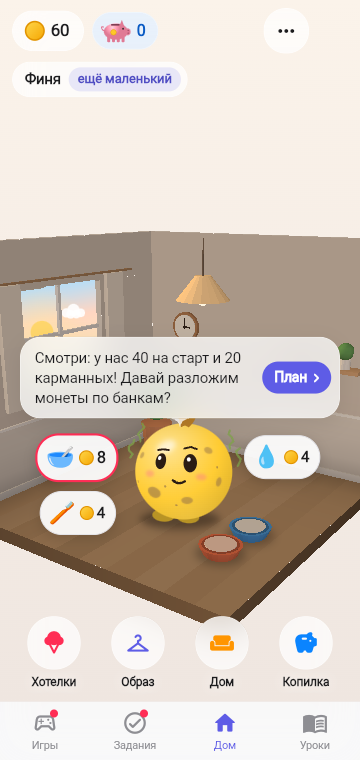
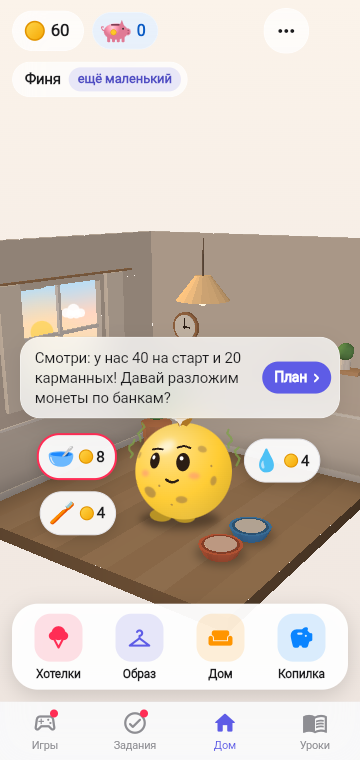
F-042: intro day — no mandatory needs on day 1 (plan, first lesson, games, savings, sleep), needs from day 2; Home sections on a light dock readable at any time of day

diff --git a/client/test/ui/app_flow_test.dart b/client/test/ui/app_flow_test.dart
@@ -55,7 +55,7 @@ Future<void> onboard(WidgetTester t, String name) async {
   await tapKey(t, 'hero.go');
   await settle(t, 20);
   // F-038: герой знакомится — 4 реплики, потом обычный день.
-  for (var i = 0; i < 4; i++) {
+  for (var i = 0; i < 5; i++) {
     await tapKey(t, 'home.greet');
   }
   expect(find.byKey(const Key('home.greet')), findsNothing);
@@ -78,6 +78,17 @@ void main() {
     expect(find.text('Кто заходит?'), findsOneWidget);
     await onboard(t, 'Аня');
     expect(find.text('60'), findsOneWidget);
+
+    // F-042: первый день — знакомство без нужд; спим — и завтра заботы.
+    expect(find.byKey(const Key('home.need.breakfast')), findsNothing);
+    await tapKey(t, 'nav.tasks');
+    await tapKey(t, 'tasks.sleep');
+    await settle(t, 25);
+    expect(find.text('Итог дня 1'), findsOneWidget);
+    await tapKey(t, 'night.morning');
+    await settle(t, 30);
+    await tapKey(t, 'nav.home');
+    expect(find.byKey(const Key('home.need.breakfast')), findsOneWidget);
 
     // А.5 план.
     await tapKey(t, 'home.next');
@@ -187,12 +198,12 @@ void main() {
     await tapKey(t, 'nav.tasks');
     await tapKey(t, 'tasks.sleep');
     await settle(t, 25);
-    expect(find.text('Итог дня 1'), findsOneWidget);
+    expect(find.text('Итог дня 2'), findsOneWidget);
     expect(find.text('✅ Хороший день!'), findsOneWidget);
     await tapKey(t, 'night.morning');
     await settle(t, 30);
-    await scrollTo(t, find.textContaining('День 2'));
-    expect(find.textContaining('День 2'), findsOneWidget);
+    await scrollTo(t, find.textContaining('День 3'));
+    expect(find.textContaining('День 3'), findsOneWidget);
 
     // Уроки: путь — следующий урок открыт, за первый урок дня 2 снова награда.
     await tapKey(t, 'nav.lessons');
@@ -225,7 +236,7 @@ void main() {
     await t.pumpWidget(FinniApp(store: store, loadContent: () async => content));
     await settle(t, 20);
     await tapKey(t, 'nav.tasks');
-    expect(find.textContaining('День 2'), findsOneWidget);
+    expect(find.textContaining('День 3'), findsOneWidget);
 
     // А.12 взрослый и сброс.
     await tapKey(t, 'nav.home');
@@ -260,11 +271,7 @@ void main() {
     await tapKey(t, 'plan.done');
     await settle(t, 40); // тост плана уезжает с кнопок
     expect(find.byKey(const Key('home.needs')), findsNothing); // кнопки «Нужное» больше нет (F-041)
-    for (final id in ['breakfast', 'water', 'care']) {
-      await tapKey(t, 'home.need.$id');
-      await tapKey(t, 'shop.buy');
-      await settle(t, 30);
-    }
+    expect(find.byKey(const Key('home.need.breakfast')), findsNothing); // день знакомства — игры открыты (F-042)
 
     await tapKey(t, 'nav.games');
     await tapKey(t, 'games.sort');

diff --git a/client/test/game/game_controller_test.dart b/client/test/game/game_controller_test.dart
@@ -7,6 +7,7 @@ import 'package:finni/economy/economy.dart';
 import 'package:finni/game/game_controller.dart';
 import 'package:finni/game/game_feedback.dart';
 import 'package:finni/game/quests.dart';
+import 'package:finni/game/pet_wish.dart';
 import 'package:finni/content/lesson_models.dart';
 import 'package:finni/store/profile_store.dart';
 import 'package:finni/store/snapshot.dart';
@@ -35,7 +36,7 @@ void main() {
   setUp(() async {
     store = MemoryProfileStore();
     game = await fresh();
-    await game.createProfile(playerName: 'Аня', petName: 'Финни', lookId: 'sun_tuft');
+    await game.createProfile(playerName: 'Аня', petName: 'Финни', lookId: 'sun_tuft', introDay: false);
   });
 
   Future<void> buyNeeds() async {
@@ -425,6 +426,25 @@ void main() {
     expect(restarted.economy.savings, game.economy.savings);
   });
 
+  test('first day is an intro day: needs start tomorrow (F-042)', () async {
+    final g = await fresh();
+    await g.createProfile(playerName: 'Аня', petName: 'Финя', lookId: 'sun_tuft');
+    expect(g.isIntroDay, isTrue);
+    expect(g.todaysNeeds, isEmpty);
+    expect(g.isGrubby, isFalse);
+    expect(g.foodServed && g.waterServed, isTrue);
+    expect(wishFor(g).kind, WishKind.plan);
+    await g.confirmPlan(need: 0, want: 0, save: g.economy.available.value);
+    expect(wishFor(g).kind, WishKind.quest); // сразу урок
+    await g.finishLesson('needs_1');
+    expect(wishFor(g).kind, WishKind.play); // показываем игры
+    await g.finishMiniGame('sort', win: true, score: 9);
+    expect(wishFor(g).kind, WishKind.save);
+    await g.endDay();
+    expect(g.isIntroDay, isFalse);
+    expect(g.todaysNeeds.map((i) => i.id), ['breakfast', 'water', 'care']);
+  });
+
   test('a new pet greets the player once (F-038)', () async {
     expect(game.greeting, isTrue);
     await game.finishGreeting();
@@ -603,7 +623,7 @@ void main() {
         ..['pocketMoney'] = 5;
       final poor = GameController(content: GameContent.fromJson(raw), store: MemoryProfileStore(), newId: () => 'p${ids++}');
       await poor.init();
-      await poor.createProfile(playerName: 'Аня', petName: 'Финни', lookId: 'sun_tuft');
+      await poor.createProfile(playerName: 'Аня', petName: 'Финни', lookId: 'sun_tuft', introDay: false);
       expect(poor.canAffordNeeds, isFalse);
       expect(poor.gamesLocked, isFalse);
     });

diff --git a/client/lib/game/game_controller.dart b/client/lib/game/game_controller.dart
@@ -44,14 +44,21 @@ final class GameController extends ChangeNotifier {
   Inventory get inventory => snapshot.inventory;
   int get day => snapshot.day;
 
-  List<ShopItem> get todaysNeeds => content.needsForDay(day);
+  /// День знакомства: нужды начинаются со следующего дня (F-042).
+  bool get isIntroDay => day < snapshot.firstNeedsDay;
+
+  /// В первый день с нуждами — «первый набор» (завтрак, вода, умывание), дальше — по расписанию.
+  List<ShopItem> get todaysNeeds => isIntroDay
+      ? const []
+      : content.needsForDay(day == snapshot.firstNeedsDay ? 1 : day);
   int get todaysNeedSum => todaysNeeds.fold(0, (s, i) => s + i.price);
   bool isBoughtToday(String itemId) => snapshot.boughtToday.contains(itemId);
   bool get needsDone => todaysNeeds.every((i) => isBoughtToday(i.id));
 
   // Потребности видны в комнате (SA F-027).
   bool _needToday(String id) => todaysNeeds.any((i) => i.id == id);
-  bool get foodServed => todaysNeeds.any((i) => i.need == 'food' && isBoughtToday(i.id));
+  bool get foodServed =>
+      !todaysNeeds.any((i) => i.need == 'food') || todaysNeeds.any((i) => i.need == 'food' && isBoughtToday(i.id));
   bool get waterServed => !_needToday('water') || isBoughtToday('water');
 
   /// Неухоженный, пока не куплен любой уход дня: умывание, купание, стирка, стрижка (F-032).
@@ -118,6 +125,7 @@ final class GameController extends ChangeNotifier {
     required String playerName,
     required String petName,
     required String lookId,
+    bool introDay = true,
     String skin = 'finik',
     int? color,
     String? hair,
@@ -142,6 +150,7 @@ final class GameController extends ChangeNotifier {
         soundOn: true,
         dailyQuests: [for (final q in pickDailyQuests(day: 1, hasNewTopic: true, hasStarted: false)) q.name],
         introDone: false,
+        firstNeedsDay: introDay ? 2 : 1,
       ),
     );
   }

diff --git a/client/lib/store/snapshot.dart b/client/lib/store/snapshot.dart
@@ -260,6 +260,7 @@ final class GameSnapshot {
     this.dailyQuests = const [],
     this.claimed = const [],
     this.introDone = true,
+    this.firstNeedsDay = 1,
   });
 
   static const version = 1;
@@ -296,6 +297,7 @@ final class GameSnapshot {
       dailyQuests: _strings(j['dailyQuests'] ?? const <String>[]),
       claimed: _strings(j['claimed'] ?? const <String>[]),
       introDone: j['introDone'] as bool? ?? true,
+      firstNeedsDay: j['firstNeedsDay'] as int? ?? 1,
     );
   }
 
@@ -339,6 +341,9 @@ final class GameSnapshot {
   /// Знакомство с героем уже было (F-038). Старые сохранения — `true`.
   final bool introDone;
 
+  /// С какого дня нужны нужды: 2 — первый день знакомства (F-042), 1 — старые сохранения.
+  final int firstNeedsDay;
+
   GameSnapshot copyWith({
     Profile? profile,
     EconomyState? economy,
@@ -363,6 +368,7 @@ final class GameSnapshot {
     List<String>? dailyQuests,
     List<String>? claimed,
     bool? introDone,
+    int? firstNeedsDay,
   }) => GameSnapshot(
     profile: profile ?? this.profile,
     economy: economy ?? this.economy,
@@ -384,6 +390,7 @@ final class GameSnapshot {
     dailyQuests: dailyQuests ?? this.dailyQuests,
     claimed: claimed ?? this.claimed,
     introDone: introDone ?? this.introDone,
+    firstNeedsDay: firstNeedsDay ?? this.firstNeedsDay,
   );
 
   Map<String, dynamic> toJson() => {
@@ -408,5 +415,6 @@ final class GameSnapshot {
     'dailyQuests': dailyQuests,
     'claimed': claimed,
     'introDone': introDone,
+    'firstNeedsDay': firstNeedsDay,
   };
 }

diff --git a/client/lib/ui/tabs/home_tab.dart b/client/lib/ui/tabs/home_tab.dart
@@ -146,7 +146,15 @@ class _HomeTabState extends State<HomeTab> {
               left: 12,
               right: 12,
               bottom: 12,
-              child: Column(
+              // Светлая панель-«док»: кнопки одинаково читаются утром, вечером и ночью (F-042).
+              child: Container(
+                padding: const EdgeInsets.fromLTRB(6, 10, 6, 8),
+                decoration: BoxDecoration(
+                  color: const Color(0xF5FFFFFF),
+                  borderRadius: BorderRadius.circular(26),
+                  boxShadow: const [BoxShadow(color: Color(0x26000000), blurRadius: 18, offset: Offset(0, 6))],
+                ),
+                child: Column(
                 children: [
                   Row(
                     mainAxisAlignment: MainAxisAlignment.spaceBetween,
@@ -159,6 +167,7 @@ class _HomeTabState extends State<HomeTab> {
                     ],
                   ),
                 ],
+              ),
               ),
             ),
           ],
@@ -294,7 +303,7 @@ class _HomeTabState extends State<HomeTab> {
 
   void _nextGreet() {
     _mascot.jump();
-    if (_greet < 4) {
+    if (_greet < 5) {
       setState(() => _greet++);
     } else {
       game.finishGreeting();

diff --git a/client/lib/ui/widgets/duo.dart b/client/lib/ui/widgets/duo.dart
@@ -267,7 +267,12 @@ class DuoIconButton extends StatelessWidget {
             child: Column(
               mainAxisSize: MainAxisSize.min,
               children: [
-                Glass(radius: 26, padding: const EdgeInsets.all(13), child: Icon(icon, size: 26, color: color)),
+                // Плотная цветная плитка: читается и днём, и ночью (F-042).
+                Container(
+                  padding: const EdgeInsets.all(11),
+                  decoration: BoxDecoration(color: color.withValues(alpha: 0.14), borderRadius: BorderRadius.circular(16)),
+                  child: Icon(icon, size: 26, color: color),
+                ),
                 const SizedBox(height: 4),
                 FittedBox(
                   fit: BoxFit.scaleDown,
@@ -278,7 +283,6 @@ class DuoIconButton extends StatelessWidget {
                       fontSize: 12,
                       fontWeight: FontWeight.w600,
                       color: FinniColors.ink,
-                      shadows: [Shadow(color: Color(0xCCFFFFFF), blurRadius: 6)],
                     ),
                   ),
                 ),

diff --git a/client/lib/game/pet_wish.dart b/client/lib/game/pet_wish.dart
@@ -50,7 +50,8 @@ PetWish wishFor(GameController g) {
       if (!g.isBoughtToday(item.id)) return _needWish[item.need] ?? WishKind.eat;
     }
     if (!g.lessonPaidToday) return WishKind.quest; // урок дня (F-025)
-    // Поиграть — по желанию, в цепочку дня не входит (F-036).
+    // Поиграть — по желанию (F-036); в день знакомства герой зовёт поиграть, чтобы показать игры (F-042).
+    if (g.isIntroDay && !g.gameRewardToday) return WishKind.play;
     if (g.economy.savedThisPeriod.value == 0) return WishKind.save;
     return WishKind.sleep;
   }();

diff --git a/client/test/ui/savings_goal_test.dart b/client/test/ui/savings_goal_test.dart
@@ -15,7 +15,7 @@ void main() {
     var ids = 0;
     final game = GameController(content: content, store: MemoryProfileStore(), newId: () => 'g${ids++}');
     await game.init();
-    await game.createProfile(playerName: 'Аня', petName: 'Финя', lookId: 'sun_tuft');
+    await game.createProfile(playerName: 'Аня', petName: 'Финя', lookId: 'sun_tuft', introDay: false);
     await game.finishGreeting();
     await game.chooseGoal('skin_giraffe');
     await game.confirmPlan(need: game.todaysNeedSum, want: 0, save: game.economy.available.value - game.todaysNeedSum);

diff --git a/client/test/game/pet_wish_test.dart b/client/test/game/pet_wish_test.dart
@@ -25,7 +25,7 @@ void main() {
   setUp(() async {
     game = GameController(content: loadContent(), store: MemoryProfileStore(), newId: () => 'w${ids++}');
     await game.init();
-    await game.createProfile(playerName: 'Аня', petName: 'Финя', lookId: 'sun_tuft');
+    await game.createProfile(playerName: 'Аня', petName: 'Финя', lookId: 'sun_tuft', introDay: false);
   });
 
   test('morning without a plan: curious, asks for a plan', () {

diff --git a/docs/work/game/F-042_INTRO_DAY_SA_SPEC.md b/docs/work/game/F-042_INTRO_DAY_SA_SPEC.md
@@ -1,0 +1,41 @@
+# Спокойный первый день и читаемая панель разделов — системная спецификация (SA)
+
+| Поле | Значение |
+|------|----------|
+| **ID** | F-042 |
+| **Назначение** | Первый день — знакомство без обязательных нужд: план, урок, игра, копилка, сон. Нужды начинаются со второго дня. Кнопки разделов на Доме — на светлой панели, читаемой в любое время суток |
+| **Репозиторий** | `Pet_Finni_hackathon` |
+| **Источник** | Запрос Егора 2026-09-24: «после онбординга сразу появляются нужды — обязательные нужды со следующего дня: познакомились, показали курс, показали игры, а потом всё как сейчас»; «вечером кнопки Хотелки, Образ плохо видно, странный переход от тёмного к светлому» |
+| **Статус** | Согласовано Егором 2026-09-24 |
+| **Связанные артефакты** | F-038 (знакомство), F-032 (нужное), F-036 (игра по желанию), F-028 (время суток) |
+
+---
+
+## 1. Соответствие ТЗ
+
+Правило ТЗ «Еда и уход нужны питомцу каждый период». Первый день объявлен **периодом знакомства**: питомец только что появился, нужды начинаются со второго периода. Это осознанное отклонение по решению Егора; в матрице соответствия — 🟡. Если нужно строгое соответствие — в первый день можно оставить только еду (правка контента).
+
+## 3. Бизнес-требования
+
+| ID | Требование | Приоритет |
+|----|------------|-----------|
+| BR-01 | Новый профиль: в день 1 нужного нет (пузырей нет, миски полные, герой чистый) | Must |
+| BR-02 | Цепочка желаний дня 1: план → урок → **поиграем** (показать игры) → копилка → сон | Must |
+| BR-03 | Со дня 2 — нужное по расписанию; в день 2 — «первый набор»: завтрак, вода, умывание | Must |
+| BR-04 | Знакомство (F-038) говорит об этом: «Сегодня просто знакомимся: пройдём первый урок и поиграем. Заботы начнутся завтра!» | Must |
+| BR-05 | Старые сохранения: нужное как раньше (с дня 1) | Must |
+| BR-06 | Кнопки разделов Дома — на светлой панели с тенью: цветные плитки иконок, тёмные подписи; одинаково читаются утром, вечером и ночью | Must |
+
+## 4. Описание
+
+| Слой | Путь |
+|------|------|
+| Хранение | `store/snapshot.dart` (`firstNeedsDay`: 2 для новых профилей, 1 для старых) |
+| Контроллер | `game/game_controller.dart` (`todaysNeeds`, `isIntroDay`, `foodServed`) |
+| Желания | `game/pet_wish.dart` (игра в день знакомства) |
+| Знакомство | `assets/content/copy.json` (`greet.4` про первый день), `ui/tabs/home_tab.dart` |
+| Панель | `ui/tabs/home_tab.dart`, `ui/widgets/duo.dart` (`DuoIconButton`) |
+
+## 9. Тестирование
+
+`game_controller_test`: день 1 без нужного, день 2 — завтрак, вода, умывание; `pet_wish_test`: цепочка дня знакомства; `app_flow_test`: знакомство → день 1 без пузырей → сон → день 2 с нуждами.

diff --git a/docs/work/product/TZ_RULES_COMPLIANCE.md b/docs/work/product/TZ_RULES_COMPLIANCE.md
@@ -7,7 +7,7 @@
 | 1 | Лимит ресурсов: за период купить всё нельзя | 🔧 | Каталог «хочу» 138 монет при 60 в первый день; с F-024 каждый период все монеты раскладываются по банкам — запас не обходит выбор |
 | 2 | План: нужное / хочу / отложить, сумма ≤ того, что есть | ✅ | `ConfirmPlan` в `economy_engine.dart` (`planExceedsAvailable`); `confirmPlan` требует «Нужное» ≥ стоимости нужного дня |
 | 3 | План меняется до подтверждения, после — сравнение с фактом | 🔧 | Экран плана после подтверждения показывает план → факт; домен теперь тоже запрещает переписать план (`FeedbackReason.planLocked`), тест `confirmed plan is fixed until the period ends` |
-| 4 | Еда и уход каждый период — обязательные расходы | ✅ | Расписание `needSchedule` (F-032): еда каждый день (завтрак / суп / фрукты), умывание каждый день, вода ~3 дня из 4, купание / стирка / стрижка раз в 3–5 дней; сумма ≤ карманных. Тесты: `needs vary…`, `food and care are needed every period` |
+| 4 | Еда и уход каждый период — обязательные расходы | 🟡 | **Первый период — знакомство без нужд (решение Егора, F-042)**; со второго: Расписание `needSchedule` (F-032): еда каждый день (завтрак / суп / фрукты), умывание каждый день, вода ~3 дня из 4, купание / стирка / стрижка раз в 3–5 дней; сумма ≤ карманных. Тесты: `needs vary…`, `food and care are needed every period` |
 | 5 | Желаемое можно не брать и перенести — не ошибка | ✅ | Хороший день = нужное + отложено (`ClosePeriod`), «хочу» не требуется; настроение без хотелки — «спокоен», не грусть |
 | 6 | Накопления лежат отдельно | ✅ | `EconomyState.savings` отдельно от `available`; экран Копилка |
 | 7 | Цель: цена, сколько есть и сколько осталось | ✅ | Копилка: «есть X из Y, осталось Z», `goalRemaining` |

diff --git a/docs/business/01_START_AND_FINIK.md b/docs/business/01_START_AND_FINIK.md
@@ -23,13 +23,14 @@
 <p>
 <img src="img/look.png" width="200"> <img src="img/clothes.png" width="200">
 </p>
-5. **Знакомство.** На Доме герой — чистый и радостный — здоровается и рассказывает о игре, четыре реплики с кнопками:
+5. **Знакомство.** На Доме герой — чистый и радостный — здоровается и рассказывает о игре, пять реплик с кнопками:
    - «Привет, Аня! Я Финя — твой питомец. Будем знакомы!» — «Привет!»
    - «Мы вместе будем учиться финансовой грамотности: планировать монеты, копить на мечту и выбирать с умом.» — «Здорово!»
    - «Каждый день я буду о чём-то просить: покушать, помыться, узнать новое. А ты решаешь, на что потратить монеты.» — «Понятно»
+   - «Сегодня просто знакомимся: разложим монеты, пройдём первый урок и поиграем. Заботы начнутся завтра!» — «Ура!»
    - «Главное правило: сначала нужное, потом хотелки. Начнём?» — «Начнём!»
 
-   Только после этого начинается обычный день: первое желание — план с подписанным доходом «40 на старт и 20 карманных».
+   **День 1 — знакомство без обязательных нужд:** план (с подписанным доходом «40 на старт и 20 карманных») → первый урок → «Хочу поиграть!» (показываем игры) → копилка → сон. **Со второго дня** — заботы: завтрак, вода, умывание, дальше по расписанию.
 
 <p>
 <img src="img/home_greet.png" width="200"> <img src="img/home_plan.png" width="200">
